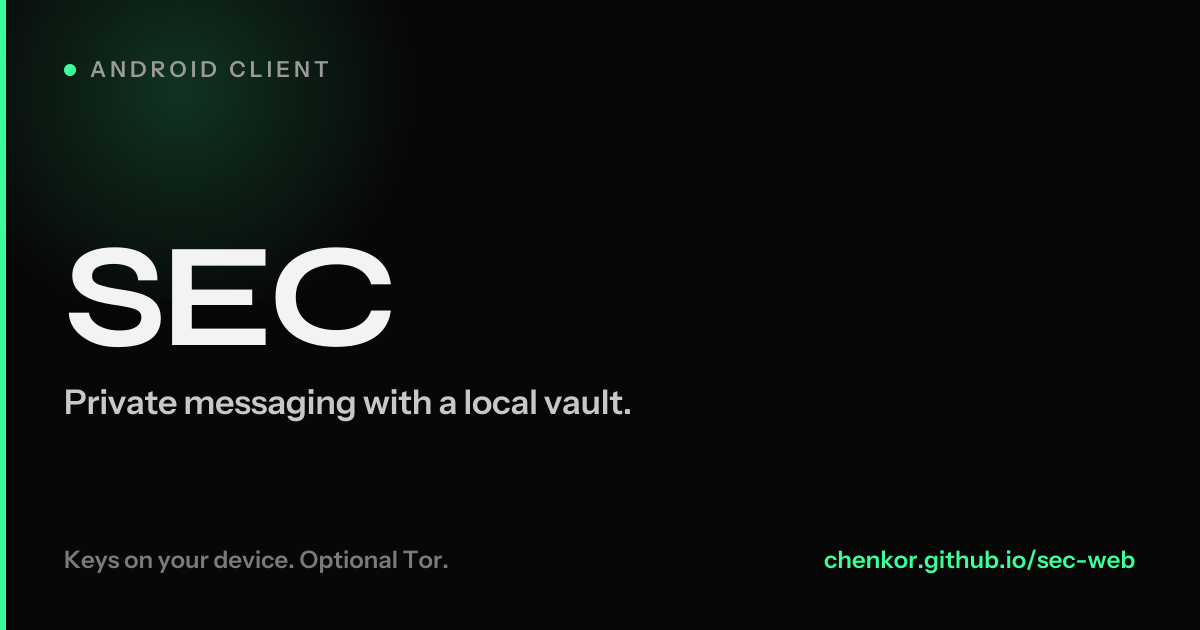
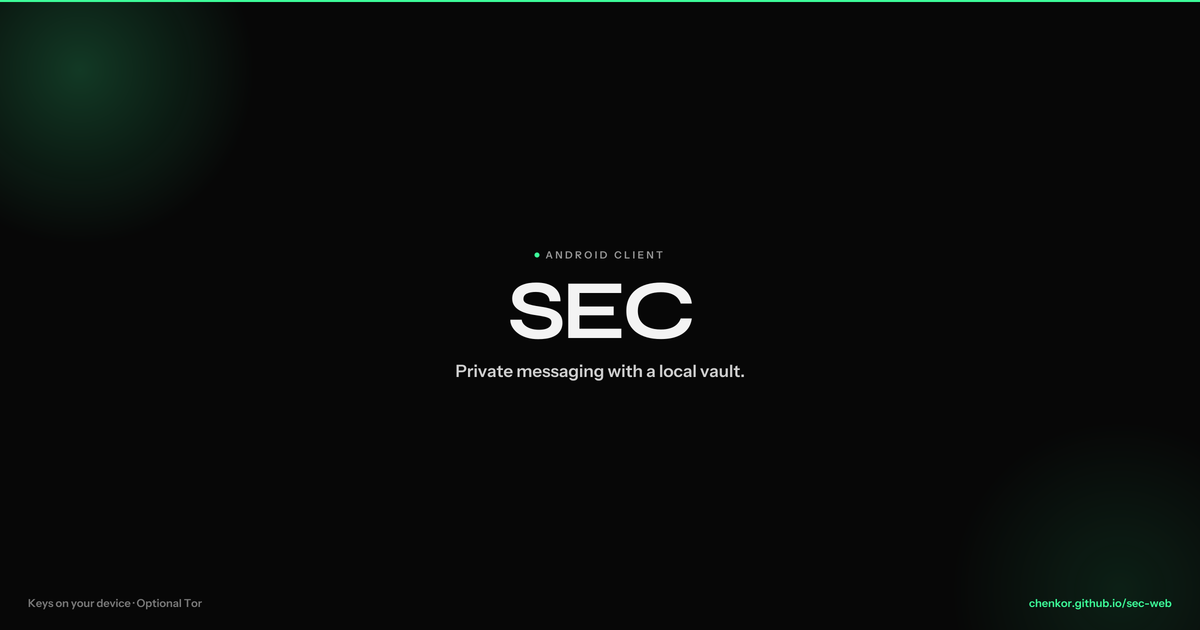
Fill Discord OG frame with centered full-bleed share art.
Center the wordmark in the 1200x630 canvas and render at 2x so embeds stop looking letterboxed.

diff --git a/docs/index.html b/docs/index.html
@@ -1,1 +1,1 @@
-<!DOCTYPE html><html lang="en"><head><meta charSet="utf-8"/><meta name="viewport" content="width=device-width, initial-scale=1"/><link rel="preload" href="/sec-web/_next/static/media/051742360c26797e-s.p.1bkzbscqrt8rl.woff2" as="font" crossorigin="" type="font/woff2"/><link rel="preload" href="/sec-web/_next/static/media/0c795a286deabae8-s.p.3vm0tq4e-zz_5.woff2" as="font" crossorigin="" type="font/woff2"/><link rel="preload" href="/sec-web/_next/static/media/f06bf9da926bae75-s.p.2874ccu1_u7jf.woff2" as="font" crossorigin="" type="font/woff2"/><link rel="stylesheet" href="/sec-web/_next/static/chunks/2o45iguma7cx9.css" data-precedence="next"/><link rel="preload" as="script" fetchPriority="low" href="/sec-web/_next/static/chunks/10qk6v6416kh8.js"/><script src="/sec-web/_next/static/chunks/27jktro2p5rq9.js" async=""></script><script src="/sec-web/_next/static/chunks/25o46h8mdjlrg.js" async=""></script><script src="/sec-web/_next/static/chunks/2bzpx_labhnn7.js" async=""></script><script src="/sec-web/_next/static/chunks/turbopack-3tnd2i8-mxdan.js" async=""></script><script src="/sec-web/_next/static/chunks/1o0jijxtucjpi.js" async=""></script><script src="/sec-web/_next/static/chunks/0n40wqjr04nvb.js" async=""></script><script src="/sec-web/_next/static/chunks/34a-75fi07r_3.js" async=""></script><meta name="next-size-adjust" content=""/><title>SEC</title><meta name="description" content="Private messaging with a local vault. Android-first, keys on your device, optional Tor."/><meta name="application-name" content="SEC"/><meta name="keywords" content="SEC,private messaging,encrypted chat,local vault,Android,Tor,Nullsec"/><meta property="og:title" content="SEC"/><meta property="og:description" content="Private messaging with a local vault. Android-first, keys on your device, optional Tor."/><meta property="og:url" content="https://chenkor.github.io/sec-web/"/><meta property="og:site_name" content="SEC"/><meta property="og:locale" content="en_US"/><meta property="og:image" content="https://chenkor.github.io/sec-web/og.png?v=2"/><meta property="og:image:type" content="image/png"/><meta property="og:image:width" content="1200"/><meta property="og:image:height" content="630"/><meta property="og:image:alt" content="SEC - private messaging with a local vault"/><meta property="og:type" content="website"/><meta name="twitter:card" content="summary_large_image"/><meta name="twitter:title" content="SEC"/><meta name="twitter:description" content="Private messaging with a local vault. Android-first, keys on your device, optional Tor."/><meta name="twitter:image" content="https://chenkor.github.io/sec-web/og.png?v=2"/><link rel="icon" href="/sec-web/favicon.ico?favicon.2vob68tjqpejf.ico" sizes="256x256" type="image/x-icon"/><script src="/sec-web/_next/static/chunks/0cz1d0mv5g_q7.js" noModule=""></script></head><body class="syne_d8dacd4f-module__a9Ia-a__variable instrument_sans_dfb7f0b8-module__4RxBeW__variable jetbrains_mono_9326615e-module__w9RNvG__variable flex min-h-screen flex-col antialiased"><div hidden=""><!--$--><!--/$--></div><header class="site-nav"><div class="site-nav__inner"><a class="site-nav__brand" href="/sec-web/">SEC</a><nav class="site-nav__links" aria-label="Primary"><span class="site-nav__indicator" aria-hidden="true" data-ready="false" style="transform:translate3d(0px, 0, 0);width:0px"></span><a class="site-nav__link" data-active="true" href="/sec-web/">Home</a><a class="site-nav__link" data-active="false" href="/sec-web/builds/">Builds</a><a class="site-nav__link" data-active="false" href="/sec-web/security/">Security</a><a class="site-nav__link" data-active="false" href="/sec-web/us/">Us</a><a class="site-nav__link" data-active="false" href="/sec-web/source/">Source</a></nav><a href="https://github.com/chenkor/sec-android/releases/download/v1.0.0-beta.10/SEC-v1.0.0-beta.10.apk" class="btn btn-primary">Download APK</a></div><nav class="site-nav__mobile" aria-label="Mobile"><span class="site-nav__indicator" aria-hidden="true" data-ready="false" style="transform:translate3d(0px, 0, 0);width:0px"></span><a class="site-nav__link" data-active="true" href="/sec-web/">Home</a><a class="site-nav__link" data-active="false" href="/sec-web/builds/">Builds</a><a class="site-nav__link" data-active="false" href="/sec-web/security/">Security</a><a class="site-nav__link" data-active="false" href="/sec-web/us/">Us</a><a class="site-nav__link" data-active="false" href="/sec-web/source/">Source</a></nav></header><main class="flex-1"><section class="home"><div><h1 class="display home__title">SEC</h1><p class="lede mt-7">A private messenger with a local vault. Built for Nullsec, and for anyone who needs a channel away from the usual platforms.</p><div class="btn-row !mt-8 !pt-0"><a href="https://github.com/chenkor/sec-android/releases/download/v1.0.0-beta.10/SEC-v1.0.0-beta.10.apk" class="btn btn-primary">Download APK</a><a class="btn btn-secondary" href="/sec-web/builds/">See builds</a></div></div><aside class="home__aside" aria-label="Live release and time"><div class="home__aside-row"><span>UTC</span><span class="home__value"><span class="live-num">02:28:21<span class="live-ms">.<!-- -->166</span><span class="live-unit"> UTC</span></span></span></div><div class="home__aside-row"><span>Version</span><span class="home__value"><span class="live-num">v1.0.0-beta.10</span></span></div><div class="home__aside-row"><span>APK</span><span class="home__value"><span class="live-num">...</span></span></div><div class="home__aside-row"><span>Released</span><span class="home__value"><span class="live-num">…</span></span></div><div class="home__aside-row"><span>Repo push</span><span class="home__value"><span class="live-num">…</span></span></div><div class="home__aside-row"><span>Stars</span><span class="home__value"><span class="live-num">0</span></span></div><div class="home__aside-row"><span>Forks</span><span class="home__value"><span class="live-num">0</span></span></div><div class="home__aside-row"><span>Open issues</span><span class="home__value"><span class="live-num">0</span></span></div><div class="home__aside-row"><span>Package</span><span class="home__value"><span class="live-num">com.sec.vault</span></span></div></aside></section><!--$--><!--/$--></main><footer class="site-footer"><div class="site-footer__inner"><div class="site-footer__links"><a href="/sec-web/builds/">Builds</a><a href="/sec-web/security/">Security</a><a href="/sec-web/us/">Us</a><a href="/sec-web/source/">Source</a><a href="https://github.com/chenkor/sec-android" target="_blank" rel="noreferrer">Android repo</a><a href="https://github.com/chenkor/sec-desktop" target="_blank" rel="noreferrer">Desktop repo</a></div><div class="site-footer__meta"><span>AGPL-3.0-or-later</span><span>v1.0.0-beta.10</span></div></div></footer><script src="/sec-web/_next/static/chunks/10qk6v6416kh8.js" id="_R_" async=""></script><script>(self.__next_f=self.__next_f||[]).push([0])</script><script>self.__next_f.push([1,"1:\"$Sreact.fragment\"\n2:I[33901,[\"/sec-web/_next/static/chunks/1o0jijxtucjpi.js\",\"/sec-web/_next/static/chunks/0n40wqjr04nvb.js\"],\"SecDataProvider\"]\n3:I[42724,[\"/sec-web/_next/static/chunks/1o0jijxtucjpi.js\",\"/sec-web/_next/static/chunks/0n40wqjr04nvb.js\"],\"Nav\"]\n4:I[39756,[\"/sec-web/_next/static/chunks/1o0jijxtucjpi.js\",\"/sec-web/_next/static/chunks/0n40wqjr04nvb.js\"],\"default\"]\n5:I[37457,[\"/sec-web/_next/static/chunks/1o0jijxtucjpi.js\",\"/sec-web/_next/static/chunks/0n40wqjr04nvb.js\"],\"default\"]\n6:I[56691,[\"/sec-web/_next/static/chunks/1o0jijxtucjpi.js\",\"/sec-web/_next/static/chunks/0n40wqjr04nvb.js\"],\"Footer\"]\n7:I[47257,[\"/sec-web/_next/static/chunks/1o0jijxtucjpi.js\",\"/sec-web/_next/static/chunks/0n40wqjr04nvb.js\"],\"ClientPageRoot\"]\n8:I[31713,[\"/sec-web/_next/static/chunks/1o0jijxtucjpi.js\",\"/sec-web/_next/static/chunks/0n40wqjr04nvb.js\",\"/sec-web/_next/static/chunks/34a-75fi07r_3.js\"],\"default\"]\nb:I[97367,[\"/sec-web/_next/static/chunks/1o0jijxtucjpi.js\",\"/sec-web/_next/static/chunks/0n40wqjr04nvb.js\"],\"OutletBoundary\"]\nc:\"$Sreact.suspense\"\ne:I[97367,[\"/sec-web/_next/static/chunks/1o0jijxtucjpi.js\",\"/sec-web/_next/static/chunks/0n40wqjr04nvb.js\"],\"ViewportBoundary\"]\n10:I[97367,[\"/sec-web/_next/static/chunks/1o0jijxtucjpi.js\",\"/sec-web/_next/static/chunks/0n40wqjr04nvb.js\"],\"MetadataBoundary\"]\n12:I[68027,[\"/sec-web/_next/static/chunks/1o0jijxtucjpi.js\",\"/sec-web/_next/static/chunks/0n40wqjr04nvb.js\"],\"default\",1]\n:HL[\"/sec-web/_next/static/chunks/2o45iguma7cx9.css\",\"style\"]\n:HL[\"/sec-web/_next/static/media/051742360c26797e-s.p.1bkzbscqrt8rl.woff2\",\"font\",{\"crossOrigin\":\"\",\"type\":\"font/woff2\"}]\n:HL[\"/sec-web/_next/static/media/0c795a286deabae8-s.p.3vm0tq4e-zz_5.woff2\",\"font\",{\"crossOrigin\":\"\",\"type\":\"font/woff2\"}]\n:HL[\"/sec-web/_next/static/media/f06bf9da926bae75-s.p.2874ccu1_u7jf.woff2\",\"font\",{\"crossOrigin\":\"\",\"type\":\"font/woff2\"}]\n"])</script><script>self.__next_f.push([1,"0:{\"P\":null,\"c\":[\"\",\"\"],\"q\":\"\",\"i\":false,\"f\":[[[\"\",{\"children\":[\"__PAGE__\",{}]},\"$undefined\",\"$undefined\",16],[[\"$\",\"$1\",\"c\",{\"children\":[[[\"$\",\"link\",\"0\",{\"rel\":\"stylesheet\",\"href\":\"/sec-web/_next/static/chunks/2o45iguma7cx9.css\",\"precedence\":\"next\",\"crossOrigin\":\"$undefined\",\"nonce\":\"$undefined\"}],[\"$\",\"script\",\"script-0\",{\"src\":\"/sec-web/_next/static/chunks/1o0jijxtucjpi.js\",\"async\":true,\"nonce\":\"$undefined\"}],[\"$\",\"script\",\"script-1\",{\"src\":\"/sec-web/_next/static/chunks/0n40wqjr04nvb.js\",\"async\":true,\"nonce\":\"$undefined\"}]],[\"$\",\"html\",null,{\"lang\":\"en\",\"children\":[\"$\",\"body\",null,{\"className\":\"syne_d8dacd4f-module__a9Ia-a__variable instrument_sans_dfb7f0b8-module__4RxBeW__variable jetbrains_mono_9326615e-module__w9RNvG__variable flex min-h-screen flex-col antialiased\",\"children\":[\"$\",\"$L2\",null,{\"children\":[[\"$\",\"$L3\",null,{}],[\"$\",\"main\",null,{\"className\":\"flex-1\",\"children\":[\"$\",\"$L4\",null,{\"parallelRouterKey\":\"children\",\"error\":\"$undefined\",\"errorStyles\":\"$undefined\",\"errorScripts\":\"$undefined\",\"template\":[\"$\",\"$L5\",null,{}],\"templateStyles\":\"$undefined\",\"templateScripts\":\"$undefined\",\"notFound\":[[[\"$\",\"title\",null,{\"children\":\"404: This page could not be found.\"}],[\"$\",\"div\",null,{\"style\":{\"fontFamily\":\"system-ui,\\\"Segoe UI\\\",Roboto,Helvetica,Arial,sans-serif,\\\"Apple Color Emoji\\\",\\\"Segoe UI Emoji\\\"\",\"height\":\"100vh\",\"textAlign\":\"center\",\"display\":\"flex\",\"flexDirection\":\"column\",\"alignItems\":\"center\",\"justifyContent\":\"center\"},\"children\":[\"$\",\"div\",null,{\"children\":[[\"$\",\"style\",null,{\"dangerouslySetInnerHTML\":{\"__html\":\"body{color:#000;background:#fff;margin:0}.next-error-h1{border-right:1px solid rgba(0,0,0,.3)}@media (prefers-color-scheme:dark){body{color:#fff;background:#000}.next-error-h1{border-right:1px solid rgba(255,255,255,.3)}}\"}}],[\"$\",\"h1\",null,{\"className\":\"next-error-h1\",\"style\":{\"display\":\"inline-block\",\"margin\":\"0 20px 0 0\",\"padding\":\"0 23px 0 0\",\"fontSize\":24,\"fontWeight\":500,\"verticalAlign\":\"top\",\"lineHeight\":\"49px\"},\"children\":404}],[\"$\",\"div\",null,{\"style\":{\"display\":\"inline-block\"},\"children\":[\"$\",\"h2\",null,{\"style\":{\"fontSize\":14,\"fontWeight\":400,\"lineHeight\":\"49px\",\"margin\":0},\"children\":\"This page could not be found.\"}]}]]}]}]],[]],\"forbidden\":\"$undefined\",\"unauthorized\":\"$undefined\"}]}],[\"$\",\"$L6\",null,{}]]}]}]}]]}],{\"children\":[[\"$\",\"$1\",\"c\",{\"children\":[[\"$\",\"$L7\",null,{\"Component\":\"$8\",\"serverProvidedParams\":{\"searchParams\":{},\"params\":{},\"promises\":[\"$@9\",\"$@a\"]}}],[[\"$\",\"script\",\"script-0\",{\"src\":\"/sec-web/_next/static/chunks/34a-75fi07r_3.js\",\"async\":true,\"nonce\":\"$undefined\"}]],[\"$\",\"$Lb\",null,{\"children\":[\"$\",\"$c\",null,{\"name\":\"Next.MetadataOutlet\",\"children\":\"$@d\"}]}]]}],{},null,false,null]},null,false,null],[\"$\",\"$1\",\"h\",{\"children\":[null,[\"$\",\"$Le\",null,{\"children\":\"$Lf\"}],[\"$\",\"div\",null,{\"hidden\":true,\"children\":[\"$\",\"$L10\",null,{\"children\":[\"$\",\"$c\",null,{\"name\":\"Next.Metadata\",\"children\":\"$L11\"}]}]}],[\"$\",\"meta\",null,{\"name\":\"next-size-adjust\",\"content\":\"\"}]]}],false]],\"m\":\"$undefined\",\"G\":[\"$12\",[[\"$\",\"link\",\"0\",{\"rel\":\"stylesheet\",\"href\":\"/sec-web/_next/static/chunks/2o45iguma7cx9.css\",\"precedence\":\"next\",\"crossOrigin\":\"$undefined\",\"nonce\":\"$undefined\"}]]],\"S\":true,\"h\":null,\"s\":\"$undefined\",\"l\":\"$undefined\",\"p\":\"$undefined\",\"d\":\"$undefined\",\"b\":\"mUas3srrdKkGltGwFe9pY\"}\n"])</script><script>self.__next_f.push([1,"9:{}\na:\"$0:f:0:1:1:children:0:props:children:0:props:serverProvidedParams:params\"\n"])</script><script>self.__next_f.push([1,"f:[[\"$\",\"meta\",\"0\",{\"charSet\":\"utf-8\"}],[\"$\",\"meta\",\"1\",{\"name\":\"viewport\",\"content\":\"width=device-width, initial-scale=1\"}]]\n"])</script><script>self.__next_f.push([1,"13:I[27201,[\"/sec-web/_next/static/chunks/1o0jijxtucjpi.js\",\"/sec-web/_next/static/chunks/0n40wqjr04nvb.js\"],\"IconMark\"]\nd:null\n"])</script><script>self.__next_f.push([1,"11:[[\"$\",\"title\",\"0\",{\"children\":\"SEC\"}],[\"$\",\"meta\",\"1\",{\"name\":\"description\",\"content\":\"Private messaging with a local vault. Android-first, keys on your device, optional Tor.\"}],[\"$\",\"meta\",\"2\",{\"name\":\"application-name\",\"content\":\"SEC\"}],[\"$\",\"meta\",\"3\",{\"name\":\"keywords\",\"content\":\"SEC,private messaging,encrypted chat,local vault,Android,Tor,Nullsec\"}],[\"$\",\"meta\",\"4\",{\"property\":\"og:title\",\"content\":\"SEC\"}],[\"$\",\"meta\",\"5\",{\"property\":\"og:description\",\"content\":\"Private messaging with a local vault. Android-first, keys on your device, optional Tor.\"}],[\"$\",\"meta\",\"6\",{\"property\":\"og:url\",\"content\":\"https://chenkor.github.io/sec-web/\"}],[\"$\",\"meta\",\"7\",{\"property\":\"og:site_name\",\"content\":\"SEC\"}],[\"$\",\"meta\",\"8\",{\"property\":\"og:locale\",\"content\":\"en_US\"}],[\"$\",\"meta\",\"9\",{\"property\":\"og:image\",\"content\":\"https://chenkor.github.io/sec-web/og.png\"}],[\"$\",\"meta\",\"10\",{\"property\":\"og:image:type\",\"content\":\"image/png\"}],[\"$\",\"meta\",\"11\",{\"property\":\"og:image:width\",\"content\":\"1200\"}],[\"$\",\"meta\",\"12\",{\"property\":\"og:image:height\",\"content\":\"630\"}],[\"$\",\"meta\",\"13\",{\"property\":\"og:image:alt\",\"content\":\"SEC - private messaging with a local vault\"}],[\"$\",\"meta\",\"14\",{\"property\":\"og:type\",\"content\":\"website\"}],[\"$\",\"meta\",\"15\",{\"name\":\"twitter:card\",\"content\":\"summary_large_image\"}],[\"$\",\"meta\",\"16\",{\"name\":\"twitter:title\",\"content\":\"SEC\"}],[\"$\",\"meta\",\"17\",{\"name\":\"twitter:description\",\"content\":\"Private messaging with a local vault. Android-first, keys on your device, optional Tor.\"}],[\"$\",\"meta\",\"18\",{\"name\":\"twitter:image\",\"content\":\"https://chenkor.github.io/sec-web/og.png\"}],[\"$\",\"link\",\"19\",{\"rel\":\"icon\",\"href\":\"/sec-web/favicon.ico?favicon.2vob68tjqpejf.ico\",\"sizes\":\"256x256\",\"type\":\"image/x-icon\"}],[\"$\",\"$L13\",\"20\",{}]]\n"])</script></body></html>
+<!DOCTYPE html><html lang="en"><head><meta charSet="utf-8"/><meta name="viewport" content="width=device-width, initial-scale=1"/><link rel="preload" href="/sec-web/_next/static/media/051742360c26797e-s.p.1bkzbscqrt8rl.woff2" as="font" crossorigin="" type="font/woff2"/><link rel="preload" href="/sec-web/_next/static/media/0c795a286deabae8-s.p.3vm0tq4e-zz_5.woff2" as="font" crossorigin="" type="font/woff2"/><link rel="preload" href="/sec-web/_next/static/media/f06bf9da926bae75-s.p.2874ccu1_u7jf.woff2" as="font" crossorigin="" type="font/woff2"/><link rel="stylesheet" href="/sec-web/_next/static/chunks/2o45iguma7cx9.css" data-precedence="next"/><link rel="preload" as="script" fetchPriority="low" href="/sec-web/_next/static/chunks/10qk6v6416kh8.js"/><script src="/sec-web/_next/static/chunks/27jktro2p5rq9.js" async=""></script><script src="/sec-web/_next/static/chunks/25o46h8mdjlrg.js" async=""></script><script src="/sec-web/_next/static/chunks/2bzpx_labhnn7.js" async=""></script><script src="/sec-web/_next/static/chunks/turbopack-3tnd2i8-mxdan.js" async=""></script><script src="/sec-web/_next/static/chunks/1o0jijxtucjpi.js" async=""></script><script src="/sec-web/_next/static/chunks/0n40wqjr04nvb.js" async=""></script><script src="/sec-web/_next/static/chunks/34a-75fi07r_3.js" async=""></script><meta name="next-size-adjust" content=""/><title>SEC</title><meta name="description" content="Private messaging with a local vault. Android-first, keys on your device, optional Tor."/><meta name="application-name" content="SEC"/><meta name="keywords" content="SEC,private messaging,encrypted chat,local vault,Android,Tor,Nullsec"/><meta property="og:title" content="SEC"/><meta property="og:description" content="Private messaging with a local vault. Android-first, keys on your device, optional Tor."/><meta property="og:url" content="https://chenkor.github.io/sec-web/"/><meta property="og:site_name" content="SEC"/><meta property="og:locale" content="en_US"/><meta property="og:image" content="https://chenkor.github.io/sec-web/og.png?v=3"/><meta property="og:image:type" content="image/png"/><meta property="og:image:width" content="1200"/><meta property="og:image:height" content="630"/><meta property="og:image:alt" content="SEC - private messaging with a local vault"/><meta property="og:type" content="website"/><meta name="twitter:card" content="summary_large_image"/><meta name="twitter:title" content="SEC"/><meta name="twitter:description" content="Private messaging with a local vault. Android-first, keys on your device, optional Tor."/><meta name="twitter:image" content="https://chenkor.github.io/sec-web/og.png?v=3"/><link rel="icon" href="/sec-web/favicon.ico?favicon.2vob68tjqpejf.ico" sizes="256x256" type="image/x-icon"/><script src="/sec-web/_next/static/chunks/0cz1d0mv5g_q7.js" noModule=""></script></head><body class="syne_d8dacd4f-module__a9Ia-a__variable instrument_sans_dfb7f0b8-module__4RxBeW__variable jetbrains_mono_9326615e-module__w9RNvG__variable flex min-h-screen flex-col antialiased"><div hidden=""><!--$--><!--/$--></div><header class="site-nav"><div class="site-nav__inner"><a class="site-nav__brand" href="/sec-web/">SEC</a><nav class="site-nav__links" aria-label="Primary"><span class="site-nav__indicator" aria-hidden="true" data-ready="false" style="transform:translate3d(0px, 0, 0);width:0px"></span><a class="site-nav__link" data-active="true" href="/sec-web/">Home</a><a class="site-nav__link" data-active="false" href="/sec-web/builds/">Builds</a><a class="site-nav__link" data-active="false" href="/sec-web/security/">Security</a><a class="site-nav__link" data-active="false" href="/sec-web/us/">Us</a><a class="site-nav__link" data-active="false" href="/sec-web/source/">Source</a></nav><a href="https://github.com/chenkor/sec-android/releases/download/v1.0.0-beta.10/SEC-v1.0.0-beta.10.apk" class="btn btn-primary">Download APK</a></div><nav class="site-nav__mobile" aria-label="Mobile"><span class="site-nav__indicator" aria-hidden="true" data-ready="false" style="transform:translate3d(0px, 0, 0);width:0px"></span><a class="site-nav__link" data-active="true" href="/sec-web/">Home</a><a class="site-nav__link" data-active="false" href="/sec-web/builds/">Builds</a><a class="site-nav__link" data-active="false" href="/sec-web/security/">Security</a><a class="site-nav__link" data-active="false" href="/sec-web/us/">Us</a><a class="site-nav__link" data-active="false" href="/sec-web/source/">Source</a></nav></header><main class="flex-1"><section class="home"><div><h1 class="display home__title">SEC</h1><p class="lede mt-7">A private messenger with a local vault. Built for Nullsec, and for anyone who needs a channel away from the usual platforms.</p><div class="btn-row !mt-8 !pt-0"><a href="https://github.com/chenkor/sec-android/releases/download/v1.0.0-beta.10/SEC-v1.0.0-beta.10.apk" class="btn btn-primary">Download APK</a><a class="btn btn-secondary" href="/sec-web/builds/">See builds</a></div></div><aside class="home__aside" aria-label="Live release and time"><div class="home__aside-row"><span>UTC</span><span class="home__value"><span class="live-num">02:28:21<span class="live-ms">.<!-- -->166</span><span class="live-unit"> UTC</span></span></span></div><div class="home__aside-row"><span>Version</span><span class="home__value"><span class="live-num">v1.0.0-beta.10</span></span></div><div class="home__aside-row"><span>APK</span><span class="home__value"><span class="live-num">...</span></span></div><div class="home__aside-row"><span>Released</span><span class="home__value"><span class="live-num">…</span></span></div><div class="home__aside-row"><span>Repo push</span><span class="home__value"><span class="live-num">…</span></span></div><div class="home__aside-row"><span>Stars</span><span class="home__value"><span class="live-num">0</span></span></div><div class="home__aside-row"><span>Forks</span><span class="home__value"><span class="live-num">0</span></span></div><div class="home__aside-row"><span>Open issues</span><span class="home__value"><span class="live-num">0</span></span></div><div class="home__aside-row"><span>Package</span><span class="home__value"><span class="live-num">com.sec.vault</span></span></div></aside></section><!--$--><!--/$--></main><footer class="site-footer"><div class="site-footer__inner"><div class="site-footer__links"><a href="/sec-web/builds/">Builds</a><a href="/sec-web/security/">Security</a><a href="/sec-web/us/">Us</a><a href="/sec-web/source/">Source</a><a href="https://github.com/chenkor/sec-android" target="_blank" rel="noreferrer">Android repo</a><a href="https://github.com/chenkor/sec-desktop" target="_blank" rel="noreferrer">Desktop repo</a></div><div class="site-footer__meta"><span>AGPL-3.0-or-later</span><span>v1.0.0-beta.10</span></div></div></footer><script src="/sec-web/_next/static/chunks/10qk6v6416kh8.js" id="_R_" async=""></script><script>(self.__next_f=self.__next_f||[]).push([0])</script><script>self.__next_f.push([1,"1:\"$Sreact.fragment\"\n2:I[33901,[\"/sec-web/_next/static/chunks/1o0jijxtucjpi.js\",\"/sec-web/_next/static/chunks/0n40wqjr04nvb.js\"],\"SecDataProvider\"]\n3:I[42724,[\"/sec-web/_next/static/chunks/1o0jijxtucjpi.js\",\"/sec-web/_next/static/chunks/0n40wqjr04nvb.js\"],\"Nav\"]\n4:I[39756,[\"/sec-web/_next/static/chunks/1o0jijxtucjpi.js\",\"/sec-web/_next/static/chunks/0n40wqjr04nvb.js\"],\"default\"]\n5:I[37457,[\"/sec-web/_next/static/chunks/1o0jijxtucjpi.js\",\"/sec-web/_next/static/chunks/0n40wqjr04nvb.js\"],\"default\"]\n6:I[56691,[\"/sec-web/_next/static/chunks/1o0jijxtucjpi.js\",\"/sec-web/_next/static/chunks/0n40wqjr04nvb.js\"],\"Footer\"]\n7:I[47257,[\"/sec-web/_next/static/chunks/1o0jijxtucjpi.js\",\"/sec-web/_next/static/chunks/0n40wqjr04nvb.js\"],\"ClientPageRoot\"]\n8:I[31713,[\"/sec-web/_next/static/chunks/1o0jijxtucjpi.js\",\"/sec-web/_next/static/chunks/0n40wqjr04nvb.js\",\"/sec-web/_next/static/chunks/34a-75fi07r_3.js\"],\"default\"]\nb:I[97367,[\"/sec-web/_next/static/chunks/1o0jijxtucjpi.js\",\"/sec-web/_next/static/chunks/0n40wqjr04nvb.js\"],\"OutletBoundary\"]\nc:\"$Sreact.suspense\"\ne:I[97367,[\"/sec-web/_next/static/chunks/1o0jijxtucjpi.js\",\"/sec-web/_next/static/chunks/0n40wqjr04nvb.js\"],\"ViewportBoundary\"]\n10:I[97367,[\"/sec-web/_next/static/chunks/1o0jijxtucjpi.js\",\"/sec-web/_next/static/chunks/0n40wqjr04nvb.js\"],\"MetadataBoundary\"]\n12:I[68027,[\"/sec-web/_next/static/chunks/1o0jijxtucjpi.js\",\"/sec-web/_next/static/chunks/0n40wqjr04nvb.js\"],\"default\",1]\n:HL[\"/sec-web/_next/static/chunks/2o45iguma7cx9.css\",\"style\"]\n:HL[\"/sec-web/_next/static/media/051742360c26797e-s.p.1bkzbscqrt8rl.woff2\",\"font\",{\"crossOrigin\":\"\",\"type\":\"font/woff2\"}]\n:HL[\"/sec-web/_next/static/media/0c795a286deabae8-s.p.3vm0tq4e-zz_5.woff2\",\"font\",{\"crossOrigin\":\"\",\"type\":\"font/woff2\"}]\n:HL[\"/sec-web/_next/static/media/f06bf9da926bae75-s.p.2874ccu1_u7jf.woff2\",\"font\",{\"crossOrigin\":\"\",\"type\":\"font/woff2\"}]\n"])</script><script>self.__next_f.push([1,"0:{\"P\":null,\"c\":[\"\",\"\"],\"q\":\"\",\"i\":false,\"f\":[[[\"\",{\"children\":[\"__PAGE__\",{}]},\"$undefined\",\"$undefined\",16],[[\"$\",\"$1\",\"c\",{\"children\":[[[\"$\",\"link\",\"0\",{\"rel\":\"stylesheet\",\"href\":\"/sec-web/_next/static/chunks/2o45iguma7cx9.css\",\"precedence\":\"next\",\"crossOrigin\":\"$undefined\",\"nonce\":\"$undefined\"}],[\"$\",\"script\",\"script-0\",{\"src\":\"/sec-web/_next/static/chunks/1o0jijxtucjpi.js\",\"async\":true,\"nonce\":\"$undefined\"}],[\"$\",\"script\",\"script-1\",{\"src\":\"/sec-web/_next/static/chunks/0n40wqjr04nvb.js\",\"async\":true,\"nonce\":\"$undefined\"}]],[\"$\",\"html\",null,{\"lang\":\"en\",\"children\":[\"$\",\"body\",null,{\"className\":\"syne_d8dacd4f-module__a9Ia-a__variable instrument_sans_dfb7f0b8-module__4RxBeW__variable jetbrains_mono_9326615e-module__w9RNvG__variable flex min-h-screen flex-col antialiased\",\"children\":[\"$\",\"$L2\",null,{\"children\":[[\"$\",\"$L3\",null,{}],[\"$\",\"main\",null,{\"className\":\"flex-1\",\"children\":[\"$\",\"$L4\",null,{\"parallelRouterKey\":\"children\",\"error\":\"$undefined\",\"errorStyles\":\"$undefined\",\"errorScripts\":\"$undefined\",\"template\":[\"$\",\"$L5\",null,{}],\"templateStyles\":\"$undefined\",\"templateScripts\":\"$undefined\",\"notFound\":[[[\"$\",\"title\",null,{\"children\":\"404: This page could not be found.\"}],[\"$\",\"div\",null,{\"style\":{\"fontFamily\":\"system-ui,\\\"Segoe UI\\\",Roboto,Helvetica,Arial,sans-serif,\\\"Apple Color Emoji\\\",\\\"Segoe UI Emoji\\\"\",\"height\":\"100vh\",\"textAlign\":\"center\",\"display\":\"flex\",\"flexDirection\":\"column\",\"alignItems\":\"center\",\"justifyContent\":\"center\"},\"children\":[\"$\",\"div\",null,{\"children\":[[\"$\",\"style\",null,{\"dangerouslySetInnerHTML\":{\"__html\":\"body{color:#000;background:#fff;margin:0}.next-error-h1{border-right:1px solid rgba(0,0,0,.3)}@media (prefers-color-scheme:dark){body{color:#fff;background:#000}.next-error-h1{border-right:1px solid rgba(255,255,255,.3)}}\"}}],[\"$\",\"h1\",null,{\"className\":\"next-error-h1\",\"style\":{\"display\":\"inline-block\",\"margin\":\"0 20px 0 0\",\"padding\":\"0 23px 0 0\",\"fontSize\":24,\"fontWeight\":500,\"verticalAlign\":\"top\",\"lineHeight\":\"49px\"},\"children\":404}],[\"$\",\"div\",null,{\"style\":{\"display\":\"inline-block\"},\"children\":[\"$\",\"h2\",null,{\"style\":{\"fontSize\":14,\"fontWeight\":400,\"lineHeight\":\"49px\",\"margin\":0},\"children\":\"This page could not be found.\"}]}]]}]}]],[]],\"forbidden\":\"$undefined\",\"unauthorized\":\"$undefined\"}]}],[\"$\",\"$L6\",null,{}]]}]}]}]]}],{\"children\":[[\"$\",\"$1\",\"c\",{\"children\":[[\"$\",\"$L7\",null,{\"Component\":\"$8\",\"serverProvidedParams\":{\"searchParams\":{},\"params\":{},\"promises\":[\"$@9\",\"$@a\"]}}],[[\"$\",\"script\",\"script-0\",{\"src\":\"/sec-web/_next/static/chunks/34a-75fi07r_3.js\",\"async\":true,\"nonce\":\"$undefined\"}]],[\"$\",\"$Lb\",null,{\"children\":[\"$\",\"$c\",null,{\"name\":\"Next.MetadataOutlet\",\"children\":\"$@d\"}]}]]}],{},null,false,null]},null,false,null],[\"$\",\"$1\",\"h\",{\"children\":[null,[\"$\",\"$Le\",null,{\"children\":\"$Lf\"}],[\"$\",\"div\",null,{\"hidden\":true,\"children\":[\"$\",\"$L10\",null,{\"children\":[\"$\",\"$c\",null,{\"name\":\"Next.Metadata\",\"children\":\"$L11\"}]}]}],[\"$\",\"meta\",null,{\"name\":\"next-size-adjust\",\"content\":\"\"}]]}],false]],\"m\":\"$undefined\",\"G\":[\"$12\",[[\"$\",\"link\",\"0\",{\"rel\":\"stylesheet\",\"href\":\"/sec-web/_next/static/chunks/2o45iguma7cx9.css\",\"precedence\":\"next\",\"crossOrigin\":\"$undefined\",\"nonce\":\"$undefined\"}]]],\"S\":true,\"h\":null,\"s\":\"$undefined\",\"l\":\"$undefined\",\"p\":\"$undefined\",\"d\":\"$undefined\",\"b\":\"mUas3srrdKkGltGwFe9pY\"}\n"])</script><script>self.__next_f.push([1,"9:{}\na:\"$0:f:0:1:1:children:0:props:children:0:props:serverProvidedParams:params\"\n"])</script><script>self.__next_f.push([1,"f:[[\"$\",\"meta\",\"0\",{\"charSet\":\"utf-8\"}],[\"$\",\"meta\",\"1\",{\"name\":\"viewport\",\"content\":\"width=device-width, initial-scale=1\"}]]\n"])</script><script>self.__next_f.push([1,"13:I[27201,[\"/sec-web/_next/static/chunks/1o0jijxtucjpi.js\",\"/sec-web/_next/static/chunks/0n40wqjr04nvb.js\"],\"IconMark\"]\nd:null\n"])</script><script>self.__next_f.push([1,"11:[[\"$\",\"title\",\"0\",{\"children\":\"SEC\"}],[\"$\",\"meta\",\"1\",{\"name\":\"description\",\"content\":\"Private messaging with a local vault. Android-first, keys on your device, optional Tor.\"}],[\"$\",\"meta\",\"2\",{\"name\":\"application-name\",\"content\":\"SEC\"}],[\"$\",\"meta\",\"3\",{\"name\":\"keywords\",\"content\":\"SEC,private messaging,encrypted chat,local vault,Android,Tor,Nullsec\"}],[\"$\",\"meta\",\"4\",{\"property\":\"og:title\",\"content\":\"SEC\"}],[\"$\",\"meta\",\"5\",{\"property\":\"og:description\",\"content\":\"Private messaging with a local vault. Android-first, keys on your device, optional Tor.\"}],[\"$\",\"meta\",\"6\",{\"property\":\"og:url\",\"content\":\"https://chenkor.github.io/sec-web/\"}],[\"$\",\"meta\",\"7\",{\"property\":\"og:site_name\",\"content\":\"SEC\"}],[\"$\",\"meta\",\"8\",{\"property\":\"og:locale\",\"content\":\"en_US\"}],[\"$\",\"meta\",\"9\",{\"property\":\"og:image\",\"content\":\"https://chenkor.github.io/sec-web/og.png?v=3\"}],[\"$\",\"meta\",\"10\",{\"property\":\"og:image:type\",\"content\":\"image/png\"}],[\"$\",\"meta\",\"11\",{\"property\":\"og:image:width\",\"content\":\"1200\"}],[\"$\",\"meta\",\"12\",{\"property\":\"og:image:height\",\"content\":\"630\"}],[\"$\",\"meta\",\"13\",{\"property\":\"og:image:alt\",\"content\":\"SEC - private messaging with a local vault\"}],[\"$\",\"meta\",\"14\",{\"property\":\"og:type\",\"content\":\"website\"}],[\"$\",\"meta\",\"15\",{\"name\":\"twitter:card\",\"content\":\"summary_large_image\"}],[\"$\",\"meta\",\"16\",{\"name\":\"twitter:title\",\"content\":\"SEC\"}],[\"$\",\"meta\",\"17\",{\"name\":\"twitter:description\",\"content\":\"Private messaging with a local vault. Android-first, keys on your device, optional Tor.\"}],[\"$\",\"meta\",\"18\",{\"name\":\"twitter:image\",\"content\":\"https://chenkor.github.io/sec-web/og.png?v=3\"}],[\"$\",\"link\",\"19\",{\"rel\":\"icon\",\"href\":\"/sec-web/favicon.ico?favicon.2vob68tjqpejf.ico\",\"sizes\":\"256x256\",\"type\":\"image/x-icon\"}],[\"$\",\"$L13\",\"20\",{}]]\n"])</script></body></html>

diff --git a/docs/go/index.html b/docs/go/index.html
@@ -18,9 +18,9 @@
     <meta property="og:locale" content="en_US" />
     <meta
       property="og:image"
-      content="https://chenkor.github.io/sec-web/og.jpg"
+      content="https://chenkor.github.io/sec-web/og.png?v=3"
     />
-    <meta property="og:image:type" content="image/jpeg" />
+    <meta property="og:image:type" content="image/png" />
     <meta property="og:image:width" content="1200" />
     <meta property="og:image:height" content="630" />
     <meta
@@ -35,7 +35,7 @@
     />
     <meta
       name="twitter:image"
-      content="https://chenkor.github.io/sec-web/og.jpg"
+      content="https://chenkor.github.io/sec-web/og.png?v=3"
     />
     <link rel="canonical" href="https://chenkor.github.io/sec-web/" />
   </head>

diff --git a/public/go/index.html b/public/go/index.html
@@ -18,9 +18,9 @@
     <meta property="og:locale" content="en_US" />
     <meta
       property="og:image"
-      content="https://chenkor.github.io/sec-web/og.jpg"
+      content="https://chenkor.github.io/sec-web/og.png?v=3"
     />
-    <meta property="og:image:type" content="image/jpeg" />
+    <meta property="og:image:type" content="image/png" />
     <meta property="og:image:width" content="1200" />
     <meta property="og:image:height" content="630" />
     <meta
@@ -35,7 +35,7 @@
     />
     <meta
       name="twitter:image"
-      content="https://chenkor.github.io/sec-web/og.jpg"
+      content="https://chenkor.github.io/sec-web/og.png?v=3"
     />
     <link rel="canonical" href="https://chenkor.github.io/sec-web/" />
   </head>

diff --git a/app/layout.tsx b/app/layout.tsx
@@ -51,7 +51,7 @@ export const metadata: Metadata = {
     images: [
       {
         // bump ?v= when regenerating so Discord/Slack drop cached mush
-        url: "/og.png?v=2",
+        url: "/og.png?v=3",
         width: 1200,
         height: 630,
         alt: "SEC - private messaging with a local vault",
@@ -63,7 +63,7 @@ export const metadata: Metadata = {
     card: "summary_large_image",
     title: "SEC",
     description: SITE.description,
-    images: ["/og.png?v=2"],
+    images: ["/og.png?v=3"],
   },
 };
 
